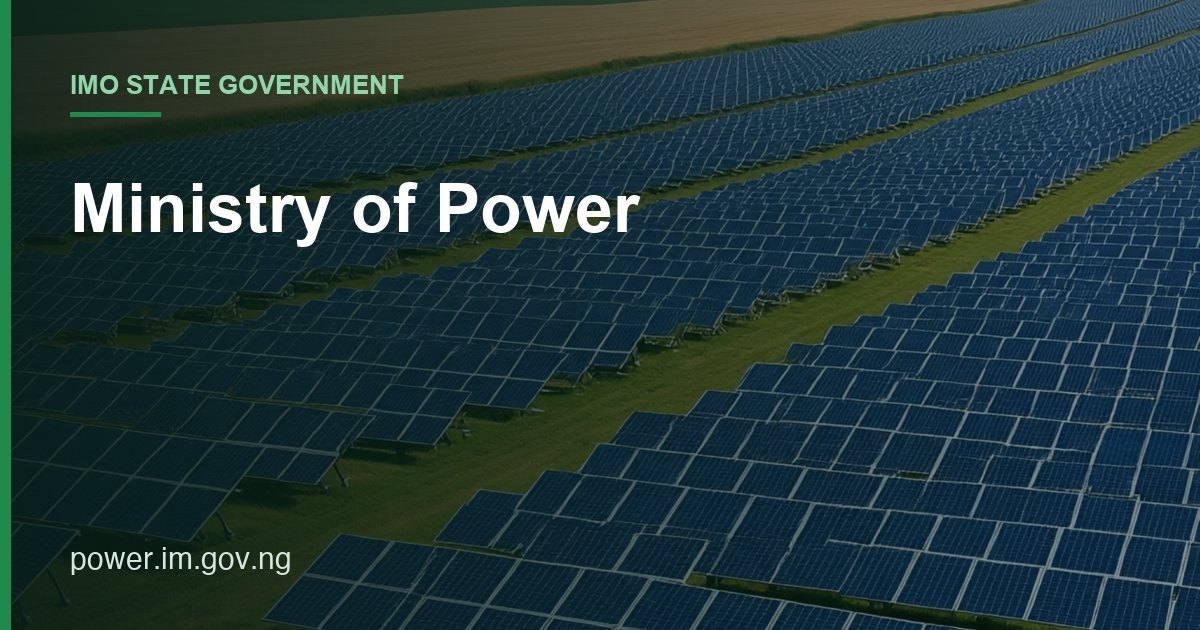
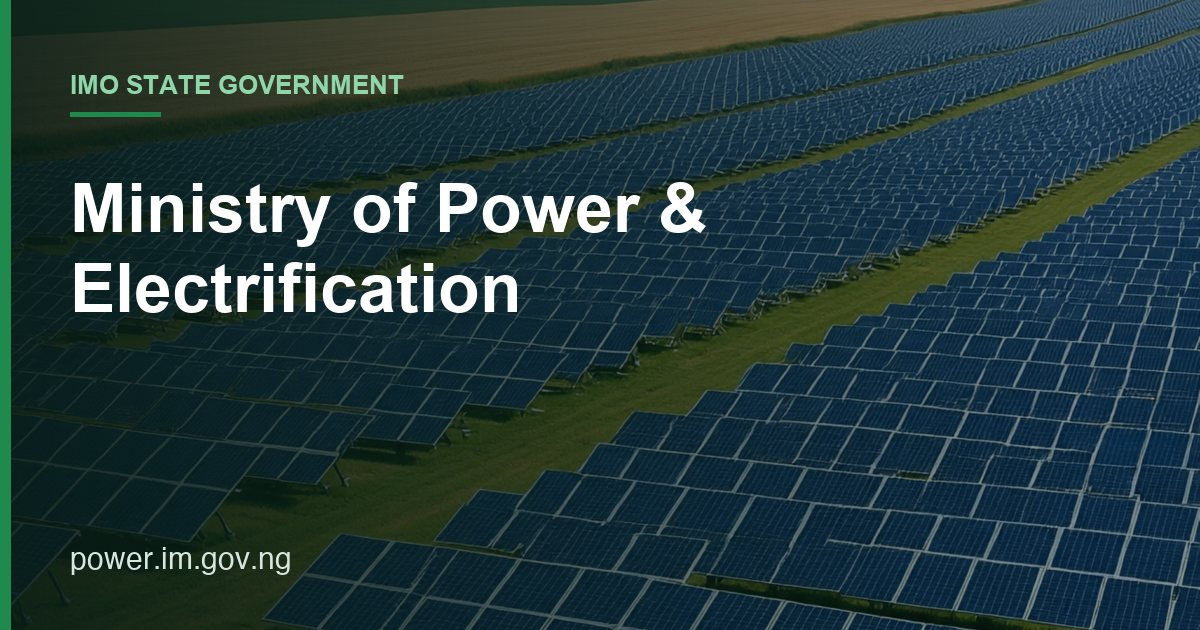
SEO sprint 3 (group 1): titles and descriptions from real service content; official names; dedicated SEO site URL variable

Changed region(s): [[0.0617, 0.3921, 0.4317, 0.5127], [0.5242, 0.2714, 0.5858, 0.3921]]

diff --git a/src/lib/seo.ts b/src/lib/seo.ts
@@ -1,10 +1,10 @@
 import type { Metadata } from "next";
 
 // Verified production domain (Vercel project domain). Override per environment if needed.
-export const SITE_URL = (process.env.NEXT_PUBLIC_SITE_URL || "https://power.im.gov.ng").replace(/\/$/, "");
-export const SITE_NAME = "Ministry of Power";
+export const SITE_URL = (process.env.NEXT_PUBLIC_SEO_SITE_URL || "https://power.im.gov.ng").replace(/\/$/, "");
+export const SITE_NAME = "Ministry of Power and Electrification";
 export const DEFAULT_DESCRIPTION =
-  "Official website of the Ministry of Power, Imo State Government: services, departments, projects, news and events.";
+  "Official website of the Ministry of Power and Electrification, Imo State Government: services, departments, projects, news and events.";
 export const OG_IMAGE_PATH = "/og-image.jpg";
 
 type Title = NonNullable<Metadata["title"]>;

diff --git a/src/app/page.tsx b/src/app/page.tsx
@@ -13,8 +13,8 @@ import Advert from "./components/economic-summit/Advert";
 import { pageMetadata } from "@/lib/seo";
 
 export const metadata = pageMetadata({
-  title: { absolute: "Ministry of Power | Imo State Government" },
-  description: "Official website of the Ministry of Power, Imo State Government: services, departments, projects, news and events.",
+  title: { absolute: "Imo State Ministry of Power and Electrification" },
+  description: "Electricity in Imo State: meter requests, fault reporting, complaints and dispute resolution, mini-grid licensing and power plant development.",
   path: "/",
 });
 

diff --git a/src/app/services/page.tsx b/src/app/services/page.tsx
@@ -5,8 +5,8 @@ import ServicesSection from "./ServicesSection";
 import { pageMetadata } from "@/lib/seo";
 
 export const metadata = pageMetadata({
-  title: "Services",
-  description: "Services offered by the Ministry of Power of the Imo State Government.",
+  title: "Meter Requests, Fault Reporting and Power Services",
+  description: "Apply for a new electricity meter, report power faults or outages, submit complaints and apply for embedded generation and mini-grid licences in Imo State.",
   path: "/services",
 });
 

diff --git a/src/app/contact-us/page.tsx b/src/app/contact-us/page.tsx
@@ -9,7 +9,7 @@ import { pageMetadata } from "@/lib/seo";
 
 export const metadata = pageMetadata({
   title: "Contact Us",
-  description: "Contact the Ministry of Power, Imo State Government: office location and ways to reach the ministry.",
+  description: "Contact the Ministry of Power and Electrification, Imo State Government: office location and ways to reach the ministry.",
   path: "/contact-us",
 });
 

diff --git a/src/app/about-us/page.tsx b/src/app/about-us/page.tsx
@@ -11,7 +11,7 @@ import { pageMetadata } from "@/lib/seo";
 
 export const metadata = pageMetadata({
   title: "About Us",
-  description: "About the Ministry of Power of the Imo State Government: who we are and what we do.",
+  description: "About the Ministry of Power and Electrification of the Imo State Government: who we are and what we do.",
   path: "/about-us",
 });
 

diff --git a/src/app/news/page.tsx b/src/app/news/page.tsx
@@ -8,7 +8,7 @@ import { pageMetadata } from "@/lib/seo";
 
 export const metadata = pageMetadata({
   title: "News",
-  description: "Latest news, announcements and updates from the Ministry of Power, Imo State.",
+  description: "Latest news, announcements and updates from the Ministry of Power and Electrification, Imo State.",
   path: "/news",
 });
 

diff --git a/src/app/departments/page.tsx b/src/app/departments/page.tsx
@@ -6,7 +6,7 @@ import { pageMetadata } from "@/lib/seo";
 
 export const metadata = pageMetadata({
   title: "Departments",
-  description: "Departments and units of the Ministry of Power, Imo State Government.",
+  description: "Departments and units of the Ministry of Power and Electrification, Imo State Government.",
   path: "/departments",
 });
 

diff --git a/src/app/media/page.tsx b/src/app/media/page.tsx
@@ -9,7 +9,7 @@ import { pageMetadata } from "@/lib/seo";
 
 export const metadata = pageMetadata({
   title: "Media Gallery",
-  description: "Photo and media gallery of the Ministry of Power, Imo State Government.",
+  description: "Photo and media gallery of the Ministry of Power and Electrification, Imo State Government.",
   path: "/media",
 });
 

diff --git a/src/app/projects/page.tsx b/src/app/projects/page.tsx
@@ -8,7 +8,7 @@ import { pageMetadata } from "@/lib/seo";
 
 export const metadata = pageMetadata({
   title: "Projects",
-  description: "Projects and programmes of the Ministry of Power, Imo State Government.",
+  description: "Projects and programmes of the Ministry of Power and Electrification, Imo State Government.",
   path: "/projects",
 });
 

diff --git a/src/app/events/page.tsx b/src/app/events/page.tsx
@@ -9,7 +9,7 @@ import { pageMetadata } from "@/lib/seo";
 
 export const metadata = pageMetadata({
   title: "Events",
-  description: "Events organised by the Ministry of Power, Imo State Government.",
+  description: "Events organised by the Ministry of Power and Electrification, Imo State Government.",
   path: "/events",
 });
 
